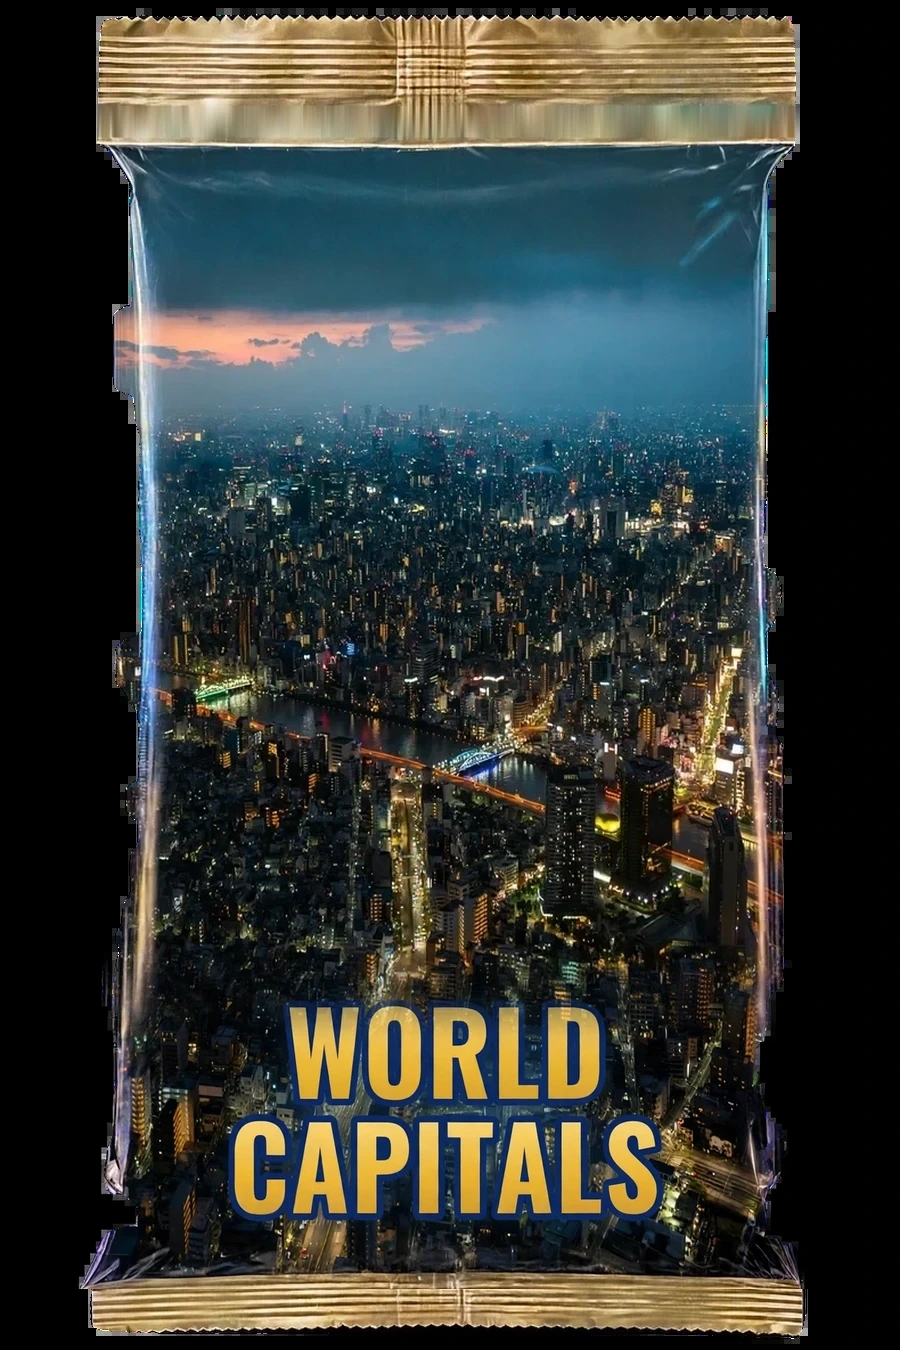
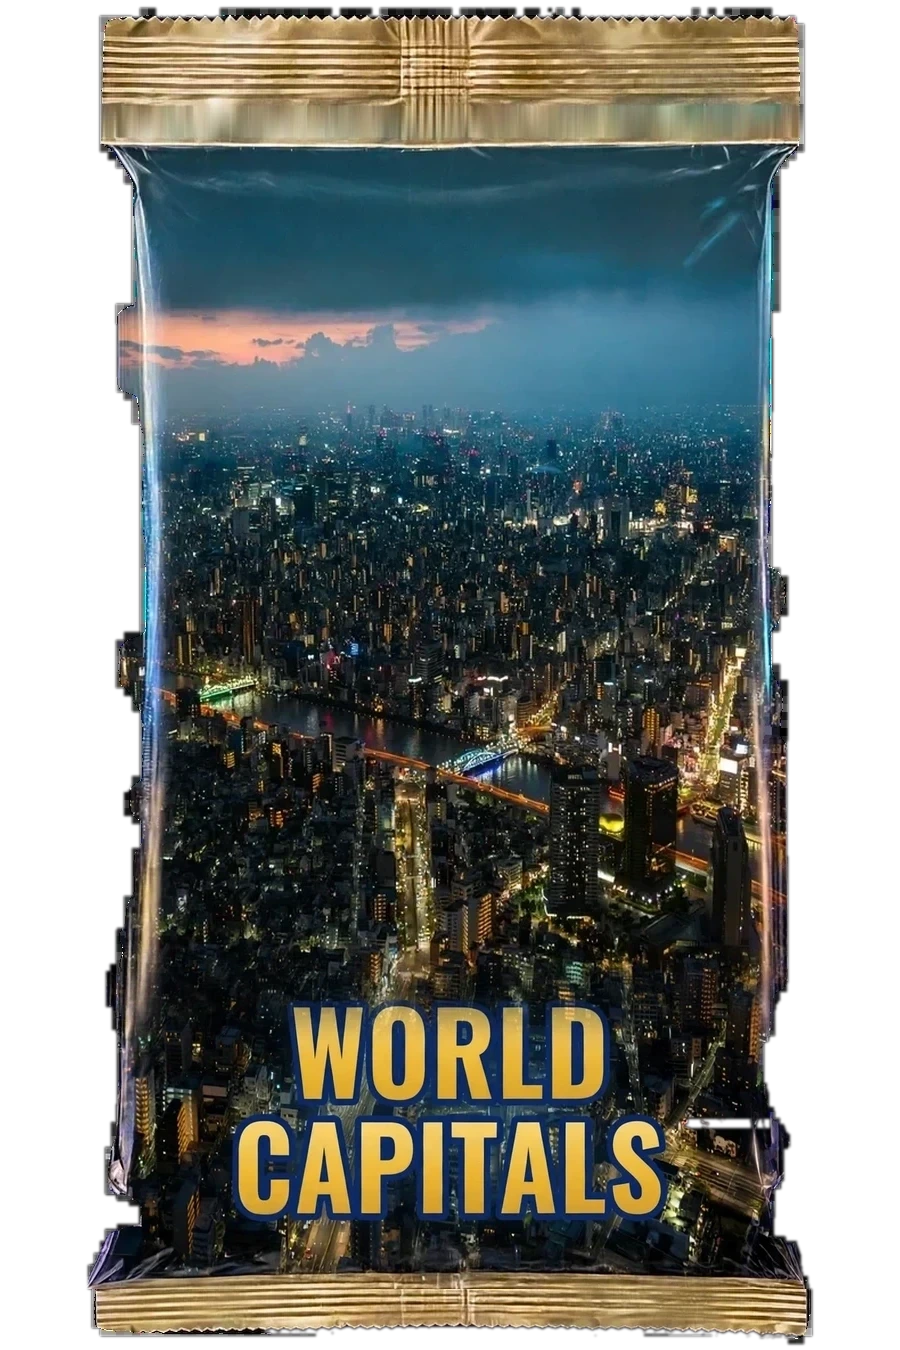
Pack art is now a true cutout and the tear guide is back (Sean): the pack photo's black backdrop is removed from the World Capitals art (flood-fill silhouette, contour-smoothed, padded back to the 900x1350 frame), so the sealed pack and the Home panel show the pack object itself instead of a black r

diff --git a/src/styles/game.css b/src/styles/game.css
@@ -706,6 +706,12 @@ body:not(.game-start) .load-pill.on { opacity: 0; visibility: hidden; transition
 .pack-sealed-cut { position: absolute; z-index: 3; inset: calc(var(--line) * 100% - 2px) 1.6% auto; height: 4px; pointer-events: none; }
 .pack-sealed.tear-rtl .pack-sealed-cut { transform: scaleX(-1); }
 .pack-sealed-cut::before { position: absolute; inset: 0 auto 0 0; width: calc(var(--tear, 0) * 100%); border-radius: 2px; background: linear-gradient(180deg, #fff8d6, #0b1430 45% 55%, #d9f4ff); box-shadow: 0 0 6px rgba(255,236,170,.6); content: ''; }
+/* The tear guide: a glowing blue line rests on the tear line before any
+   tearing, so the player can see where to trace (Sean, 2026-11-08). It
+   lives only on this opening surface; the static pack art itself carries
+   no light. Inset to the pack's own width inside the art frame. */
+.pack-sealed-cut::after { position: absolute; top: 1px; right: 7.5%; left: 7.5%; height: 2px; border-radius: 2px; background: linear-gradient(90deg, rgba(103,232,255,0), rgba(103,232,255,.95) 14% 86%, rgba(103,232,255,0)); box-shadow: 0 0 8px 2px rgba(103,232,255,.55); content: ''; animation: pack-tear-guide 1.7s ease-in-out infinite; }
+@keyframes pack-tear-guide { 0%, 100% { opacity: .55; } 50% { opacity: 1; } }
 .pack-sealed-glint { position: absolute; top: 50%; left: calc(var(--tear, 0) * 100%); width: 26px; height: 26px; border-radius: 50%; background: radial-gradient(circle, #fff 0 14%, rgba(255,240,180,.9) 26%, rgba(255,200,120,.35) 50%, transparent 70%); transform: translate(-50%, -50%); opacity: min(1, calc(var(--tear, 0) * 40)); }
 .pack-sealed.teach .pack-sealed-glint { animation: pack-glint-teach .9s ease-in-out; }
 @keyframes pack-glint-teach { 0% { left: 0; opacity: 0; } 12%, 88% { opacity: 1; } 100% { left: 100%; opacity: 0; } }
@@ -806,6 +812,7 @@ html.pack-vt::view-transition-old(root), html.pack-vt::view-transition-new(root)
   .pack-flip { transition: none; }
   .pack-flip-face { transition: none; }
   .pack-sealed-sheen { animation: none; }
+  .pack-sealed-cut::after { animation: none; }
 }
 
 /* Survival and More modes hub rows: the shared picker row without the emoji column. */
